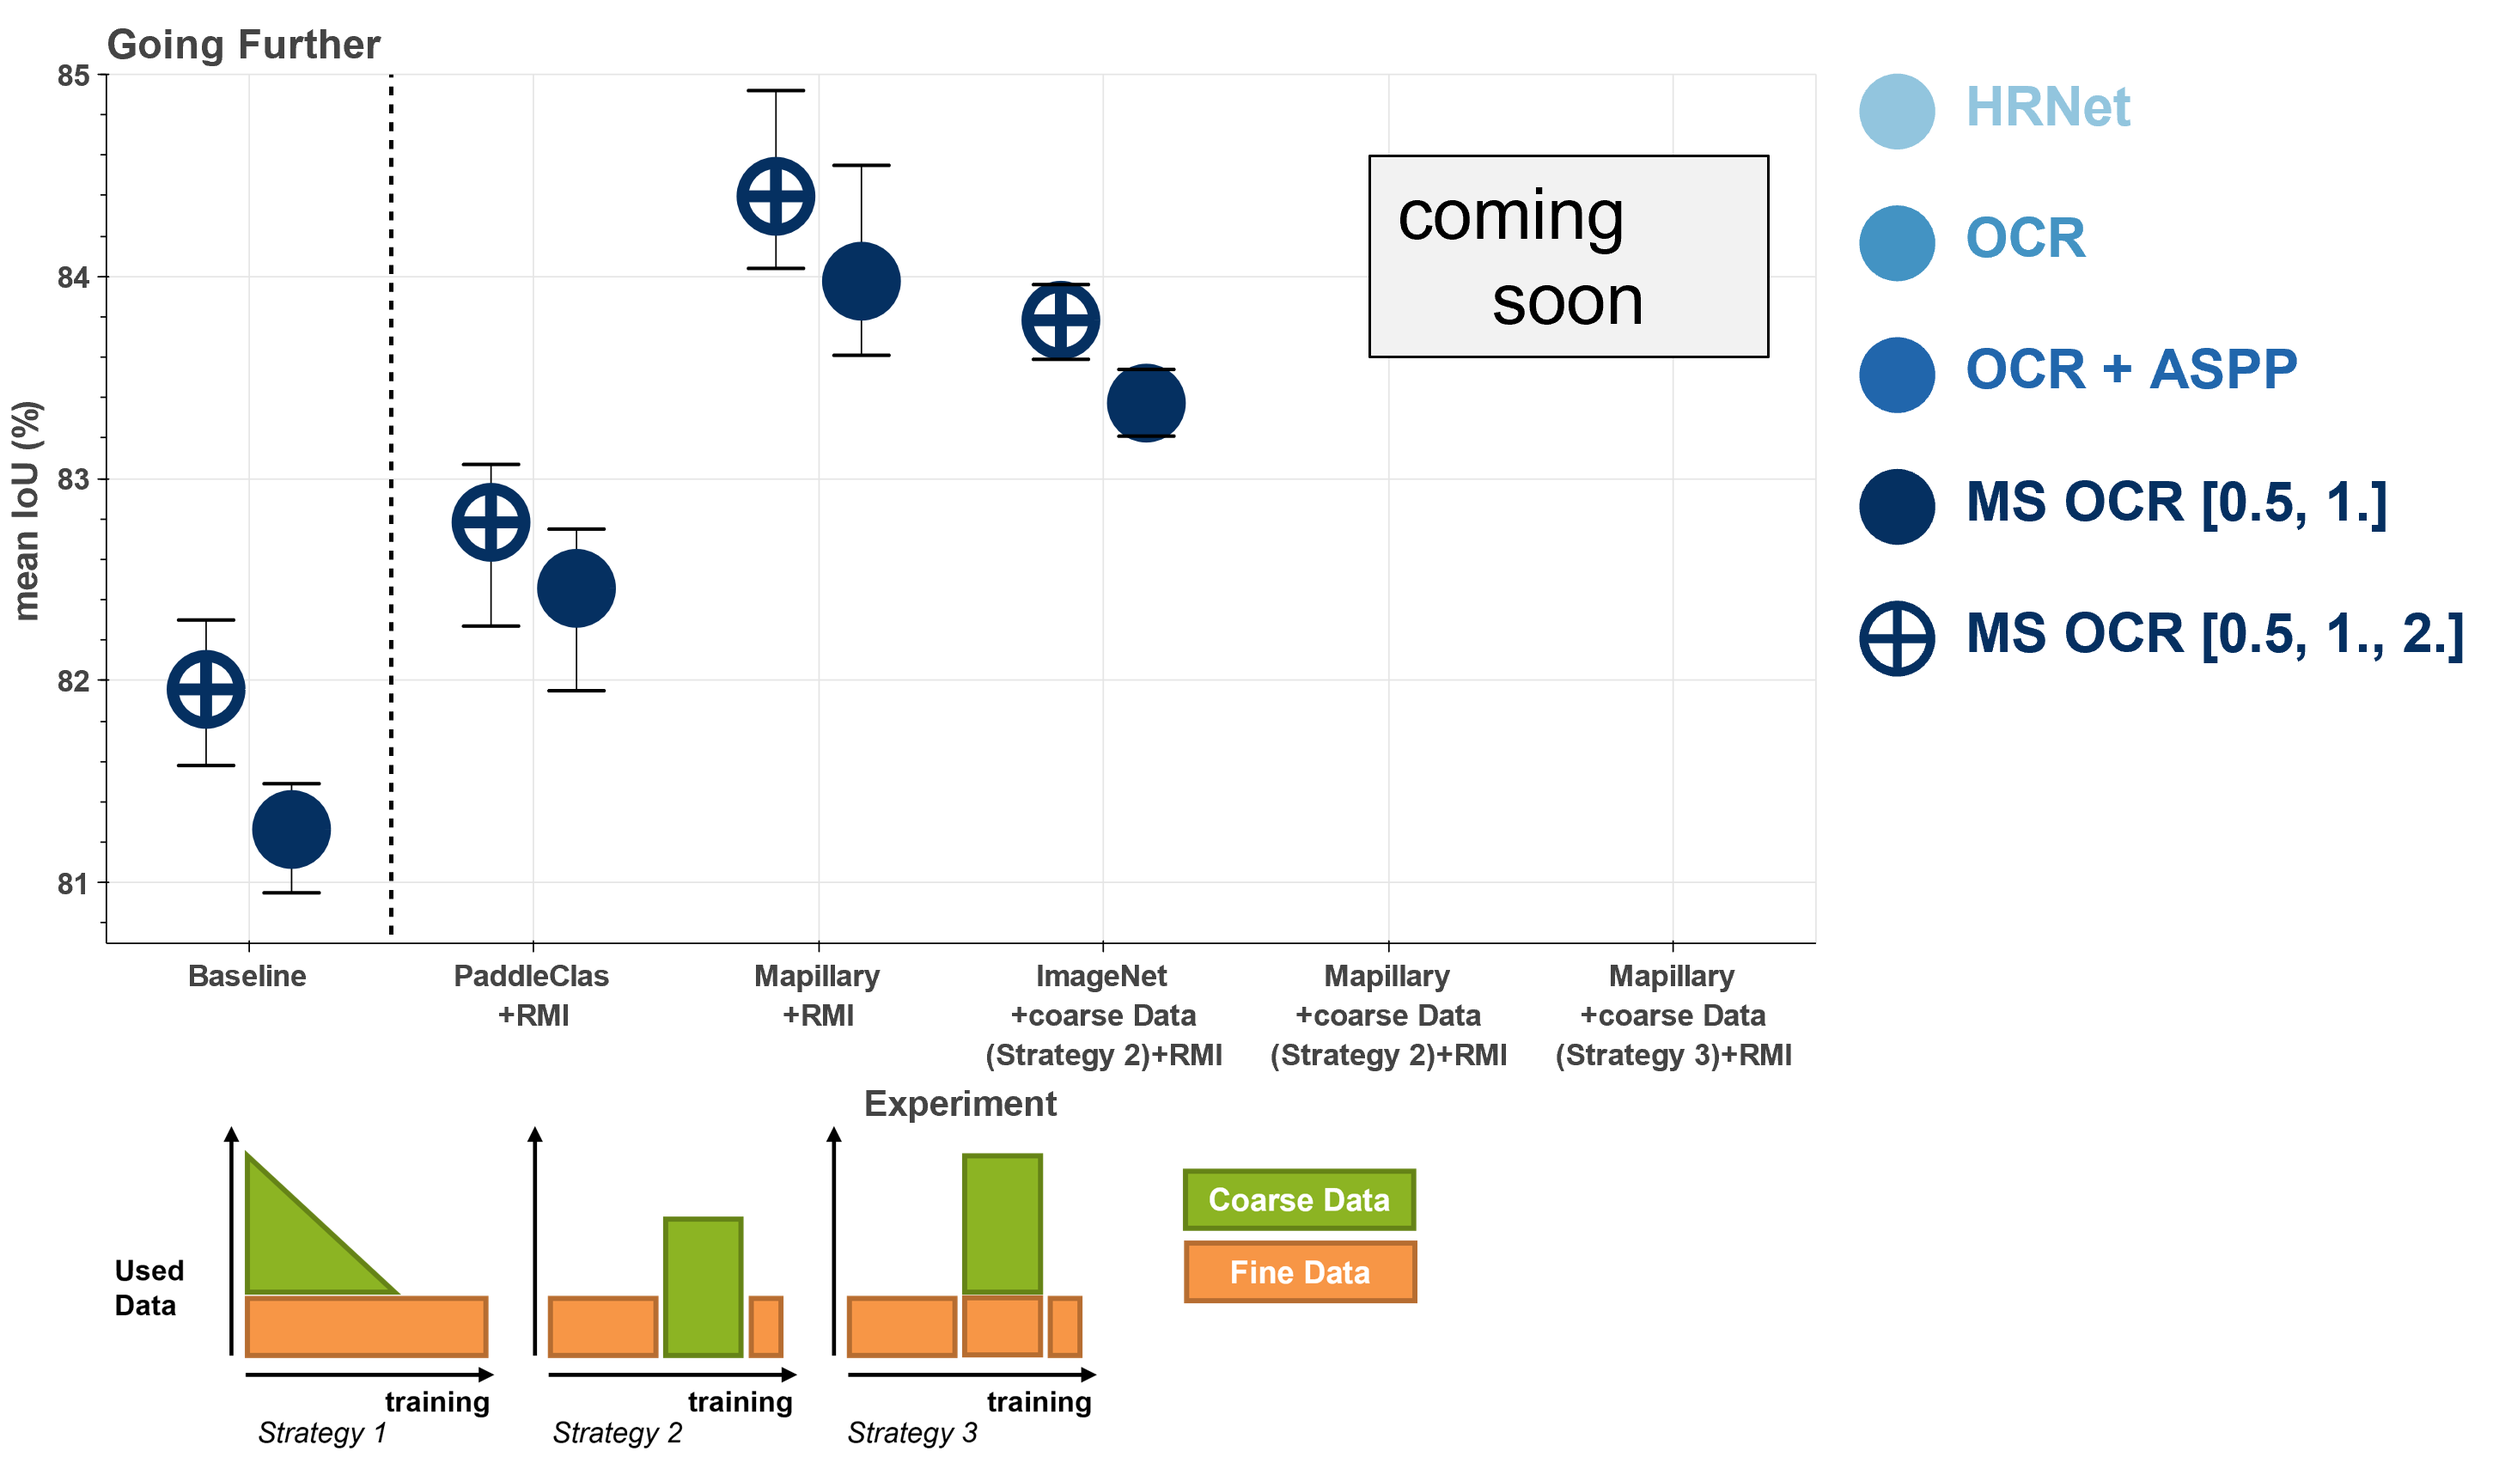
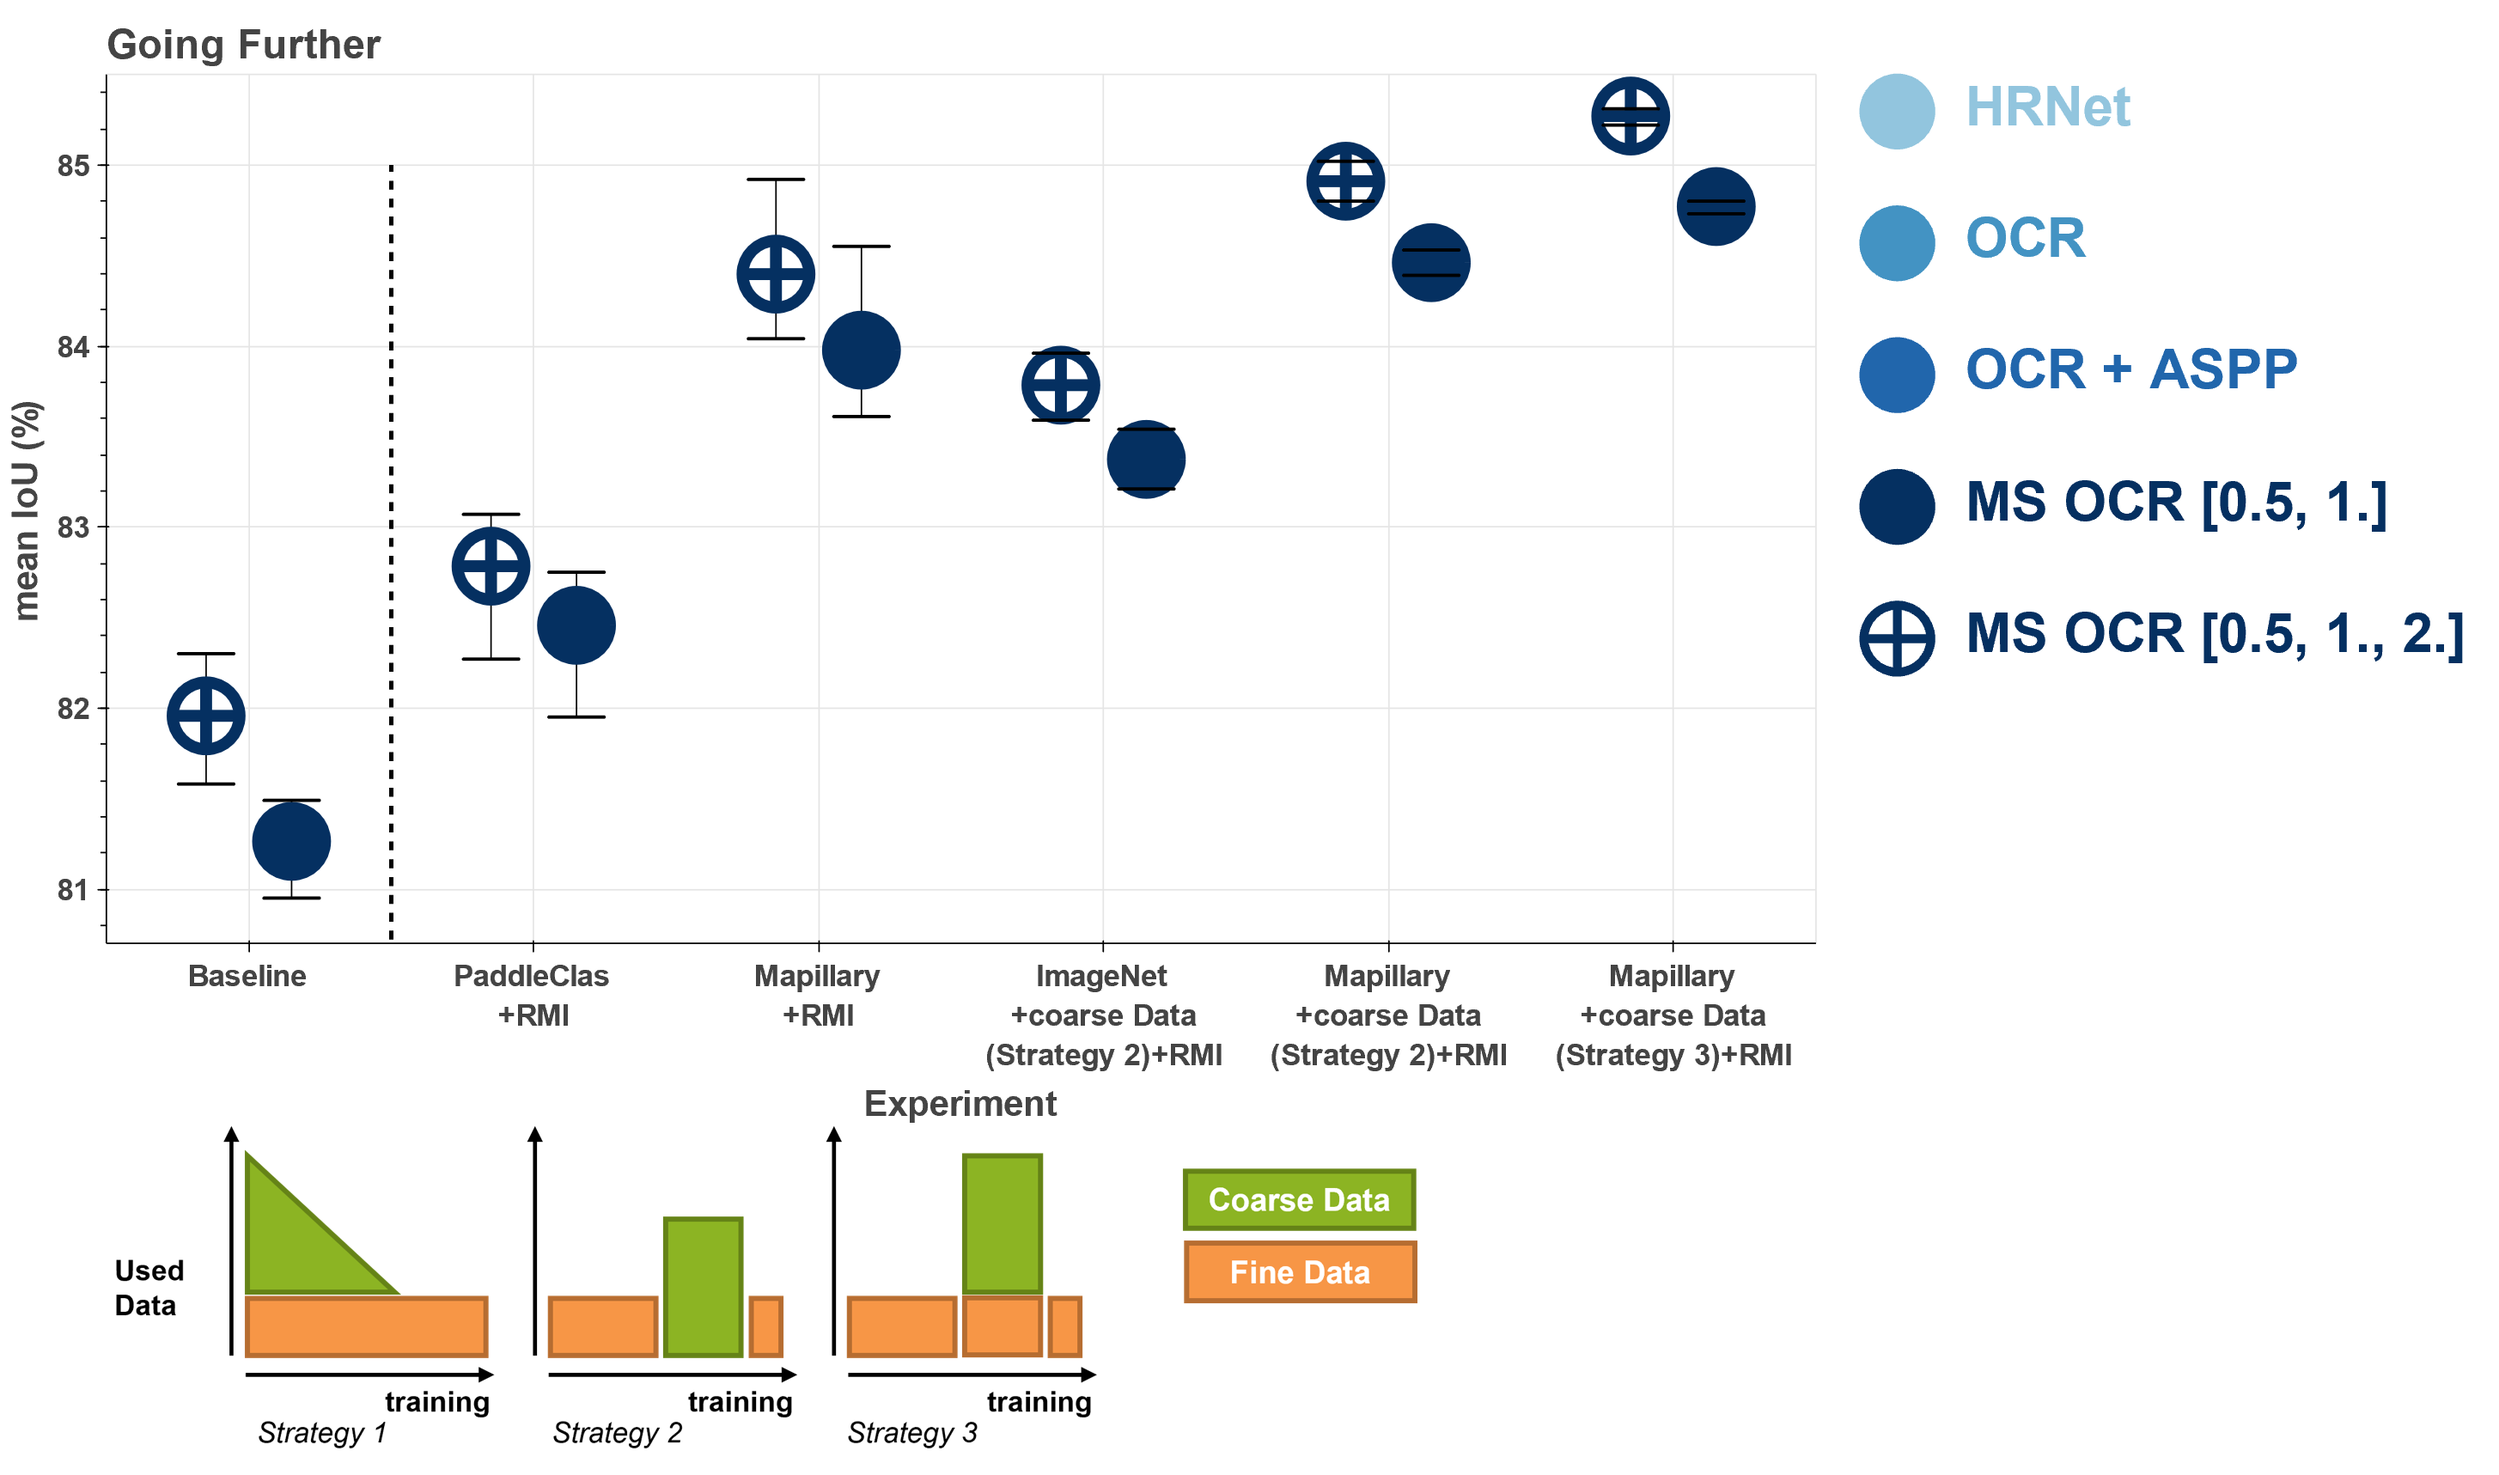
update

diff --git a/validation.py b/validation.py
@@ -71,7 +71,7 @@ def validation(ckpt_dir,hydra_args,init=True):
             callbacks.append(cb)
 
     tb_logger = pl_loggers.TensorBoardLogger(save_dir=".", name="", version="",
-                                             sub_dir="validation")  # ,default_hp_metric=False)
+                                             sub_dir="validation")#,default_hp_metric=False)
 
     trainer_args = getattr(cfg, "pl_trainer") if hasNotEmptyAttr(cfg, "pl_trainer") else {}
     trainer = Trainer(

diff --git a/README.md b/README.md
@@ -31,8 +31,8 @@ A more detailed analysis is given in the [experiments](#experiments) section.
 | HRNET                | 81.44    |  81.89   |     81.74      |        83.02         |       82.03       |         -         |
 | OCR                  | 81.37    |  82.08   |     81.89      |        83.37         |       82.24       |         -         |
 | OCR + ASPP           | 81.53    |  82.20   |       -        |          -           |         -         |         -         |
-| MS OCR [0.5, 1.]     | 81.49    |  82.59   |     82.18      |        83.63         |       82.26       |       X       |
-| MS OCR [0.5, 1., 2.] | 82.30    |  82.88   |     82.79      |        84.31         |       82.95       |       X       |
+| MS OCR [0.5, 1.]     | 81.49    |  82.59   |     82.18      |        83.63         |       82.26       |       84.80       |
+| MS OCR [0.5, 1., 2.] | 82.30    |  82.88   |     82.79      |        84.31         |       82.95       |       85.31       |
 
 
 ### References
@@ -209,7 +209,7 @@ For MS OCR pretrained weights on Mapillary are available [here](https://github.c
 These Mapillary weights can be also be used for the other models.
 Download the preferred weights (direct download links below) and put them in the *pretrained/* folder.
 - ImageNet weights: [download](https://1drv.ms/u/s!Aus8VCZ_C_33dKvqI6pBZlifgJk)
-- PaddleClass weights: [download](https://github.com/HRNet/HRNet-Image-Classification/releases/download/PretrainedWeights/HRNet_W18_C_ssld_pretrained.pth)
+- PaddleClas weights: [download](https://github.com/HRNet/HRNet-Image-Classification/releases/download/PretrainedWeights/HRNet_W18_C_ssld_pretrained.pth)
 - Mapillary weights: [download](https://drive.google.com/file/d/1Whz--rurtBoIsfF-t3YB9NEt3GT6hBQI/view?usp=sharing)
 
 ## Running Code
@@ -249,7 +249,7 @@ python main.py model=hrnet_ocr_ms               # Hierarchical Multi-Scale Atten
 ````shell
 python main.py MODEL.PRETRAINED=False           # Trained from scratch without Pretraining
 python main.py MODEL.pretrained_on=ImageNet     # Pretrained on ImageNet
-python main.py MODEL.pretrained_on=Paddle       # Pretrained using PaddleClass weights
+python main.py MODEL.pretrained_on=Paddle       # Pretrained using PaddleClas weights
 python main.py MODEL.pretrained_on=Mapillary    # Pretrained on Mapillary Dataset
 ````
 
@@ -478,7 +478,7 @@ python main.py model=hrnet_ocr_ms
 
 ### Different Loss Funcitons 
 
-Looking at the different loss functions, it can be seen that the best results can be achieved with Cross-Entropy (CE) and Region Mutual Information (RMI).
+Looking at the different loss functions, it can be seen that the best results can be achieved with Cross-Entropy (CE) and Region Mutual Information (RMI) Loss.
 Dice Loss based functions are way behind. 
 With changes to the lr and number of epochs, these can be tuned somewhat, but are still significantly worse.
 What is also seen is that the use of weights (wCE and wRMI) to compensate for class imbalances in Cityscapes significantly improve the results.
@@ -575,17 +575,15 @@ python main.py model=hrnet_ocr_ms lossfunction=[wRMI,wCE,wCE,wCE]
 
 Since the previous experiments focused on model and training parameters, a closer look at the used data is given here.
 For the baseline so far ImageNet pretrained weights are used.
-Comparison of the results with models without additional data (trained from scratch) shows that the use of pre-trained weights has a large impact in these experiments.
-The use of PaddlClas weights can further enhance results, and the best results can be achieved by pretraining on Mapillary.
+Comparison of the results with models without additional data (trained from scratch) shows that the use of pretrained weights has a large impact in these experiments.
+The use of PaddleClas weights can further enhance results, and the best results can be achieved by pretraining on Mapillary.
 The reason for this is the similarity of Mapillary to Cityscapes (both urban setting).
-Besides this, the use of the coarsen cityscapes data can also improve the results.
+Besides this, the use of the coarse cityscapes data can also improve the results.
 Three different strategies how to integrate the additional data are tested.
 The bes result are from Strategy 2 when the model is first trained on fine data, afterwards the model is finetuned (with reduced lr) with only the coarse data and finally the model is finetuned again (with reduced lr) on the fine data.
+The experiments show that there are strong differences in the results, depending on which data are used.
 
 ![Data](imgs/Data.png)
-![Data](imgs/Data2.png)
-![Data](imgs/Data3.png)
-
 
 <details><summary>Appendix</summary>
 <p>
@@ -632,7 +630,7 @@ python main.py model=hrnet MODEL.pretrained_on=ImageNet
 python main.py model=hrnet_ocr MODEL.pretrained_on=ImageNet
 python main.py model=hrnet_ocr_aspp MODEL.pretrained_on=ImageNet
 python main.py model=hrnet_ocr_ms MODEL.pretrained_on=ImageNet
-#Pretrained with PaddleClass
+#Pretrained with PaddleClas
 python main.py model=hrnet MODEL.pretrained_on=Paddle
 python main.py model=hrnet_ocr MODEL.pretrained_on=Paddle
 python main.py model=hrnet_ocr_aspp MODEL.pretrained_on=Paddle
@@ -664,9 +662,15 @@ python main.py model=hrnet_ocr_ms epochs=65 lr=0.001 +finetune_from=<path.to.ckp
 
 ### Going Further
 
-To achieve highscores the use of coarse data is combined with RMI loss.
-However, RMI loss is only used for fine data, as it has been shown to not work as well for coarsely annotated data.
-In the end, the best results were achieved in this way and with MS OCR.
+The previous experiments have shown different ways to improve the results, here they are now combined.
+The experiments have shown that MS OCR provides the best results, which is why the focus is on this model.
+First, the use of the additional data is combined with the RMI loss which leads to highly increased results.
+The RMI loss was only used in the training blocks with the fine annotated data, because the experiments showed that the RMI loss does not work well with the coarse data.
+Mapillary and PaddleClas pretraining gave better results than using ImageNet weight, so they will be tested in combination with RMI loss too.
+Again, an increase in performance can be seen, with the best results for pretraining with Mapillary and RMI loss.
+Finally, Mapillariy pretraing, RMI loss and the use of coarse data are combined.
+In the previous experiments, using strategy 2 to include coarse data produced the best results.
+But for this, strategy 3 delivers better results, which are also the absolute highscores in these experiments.
 
 ![Data](imgs/Further.png)
 
@@ -679,11 +683,13 @@ In the end, the best results were achieved in this way and with MS OCR.
 |   MS OCR [0.5, 1.]   | Baseline |   81.26   | 80.95, 81.35, **81.49** |
 |   MS OCR [0.5, 1.]   |   Paddle + RMI   |   82.46   | **82.75**,82.67,81.95 |
 |   MS OCR [0.5, 1.]   | Mapillary + RMI   | 83.98 | 84.55, 83.61, 83.77 |
-|   MS OCR [0.5, 1.]   |  Mapillary + RMI +Coarse   | - | - |
+|   MS OCR [0.5, 1.]   | Coarse + RMI   | 83.37 | 83.54, 83.37, 83.21 |
+|   MS OCR [0.5, 1.]   |  Mapillary + RMI + Coarse   | 84.77 | 84.80, 84.78, 84.73 |
 | MS OCR [0.5, 1., 2.] | Baseline |   81.96   | 81.58, 81.99, **82.30** |
 | MS OCR [0.5, 1., 2.] |   Paddle + RMI   |  82.78    | 83.01,**83.07**,82.27 |
 | MS OCR [0.5, 1., 2.] | Mapillary + RMI  |   84.37  | 84.92, 84.04, 84.23 |
-| MS OCR [0.5, 1., 2.] |  Mapillary + RMI +Coarse   |    - | - |
+|   MS OCR [0.5, 1., 2.]   |  Coarse + RMI   | 83.78 | 83.96, 83.80, 83.59 |
+| MS OCR [0.5, 1., 2.] |  Mapillary + RMI +Coarse   |    85.27 | 85.31, 85.28, 85.22 |
 
 </p>
 </details>
@@ -691,7 +697,6 @@ In the end, the best results were achieved in this way and with MS OCR.
 <details><summary>Scrips</summary>
 <p>
 
-Training Models with and without different pretrained weights
 ````shell
 #Paddle + RMI
 python main.py model=hrnet_ocr_ms lossfunction=[wRMI,wCE,wCE,wCE] MODEL.pretrained_on=Paddle

diff --git a/config/Readme.md b/config/Readme.md
@@ -237,17 +237,15 @@ python main.py MODEL.PRETRAINED=False MODEL.INIT_WEIGHTS=True
 There is also the possibility to select between different **pretrained weights**.
 ImageNet, PaddleClass and Mapillary pretrained weights are provided.
 Consider that *MODEL.PRETRAINED* need to be True.
-By default, PaddleClass weights are used and they can be changed by:
+By default, ImageNet weights are used and they can be changed by:
 ````shell 
 python main.py MODEL.pretrained_on=ImageNet
 python main.py MODEL.pretrained_on=Paddle
 python main.py MODEL.pretrained_on=Mapillary
 ````
 
-
 </p>
  </details>
-
 
 <details><summary>Customize</summary>
 <p>
@@ -335,7 +333,7 @@ Defining a custom dataset is done in two steps, first defining your custom pytor
         if split=="train":
              self.imgs = ...
              self.masks = ...
-        if split=="val":
+        if split=="val" or split=="test":       #if you have dont have a test set use the validation set
              self.imgs = ...
              self.masks = ...
         
@@ -381,7 +379,7 @@ Defining a custom dataset is done in two steps, first defining your custom pytor
      IGNORE_INDEX:    #Needed for the loss function, if no ignore indes set to 255 or another number which do no occur in your dataset 
      ## OPTIONAL, BUT NEEDED IF WEIGHTED LOSSFUNCTIONS ARE USED
      CLASS_WEIGHTS: [ 0.9, 1.1, ...]                #should be standardized for using wRMI (mean=1)
-     ##OPTIONAL, ONLY NEEDED FOR NICER LOGGING
+     ##OPTIONAL, CAN BE USED FOR NICER FOR LOGGING 
      CLASS_LABELS:
         - class1
         - class2 ...
@@ -708,8 +706,16 @@ TRAIN:
 <details><summary>Configure</summary>
 <p>
 
-Currently Intersection over Union (IoU) is the only supported metric. 
-This metric updates a confusion matrix and outputs a mean IoU (mIoU) at the end of each epoch, as well as a dict with the IoU of each class.
+Currently mean Intersection over Union (mean_IoU) is the default metric. 
+This metric updates a confusion matrix and outputs a mean IoU (mIoU) at the end of each epoch.
+If you additionally want to log the results for each class you can use mean_IoU_Class.
+A binary Dice score is also provided.
+
+````shell
+python main.py metric=mean_IoU                  # mean intersection over union
+python main.py metric=mean_IoU_Class            # mean intersection over union with logging IoU of each class
+python main.py metric=binary_Dice               # binary Dice score
+````
 
 </p>
  </details>
@@ -822,6 +828,7 @@ python main.py environment=custom_env
 <p>
 
 **Currently out ot use since problems occur together with multi gpu training**
+**Instead use Separate Testing**
 
 If your model has different behaviour during inference or testing than during training you may directly want to evaluate your model with this changed behaviour.
 For example if you want multiscale testing or want to add a scale to MS OCR.
@@ -844,7 +851,7 @@ Change the config there to meet your desires.
 </p>
  </details>
 
-<details><summary>Seperate Testing</summary>
+<details><summary>Separate Testing</summary>
 <p>
 
 If you have trained a model and want to test it with other settings or other data you can use the validation.py file.
